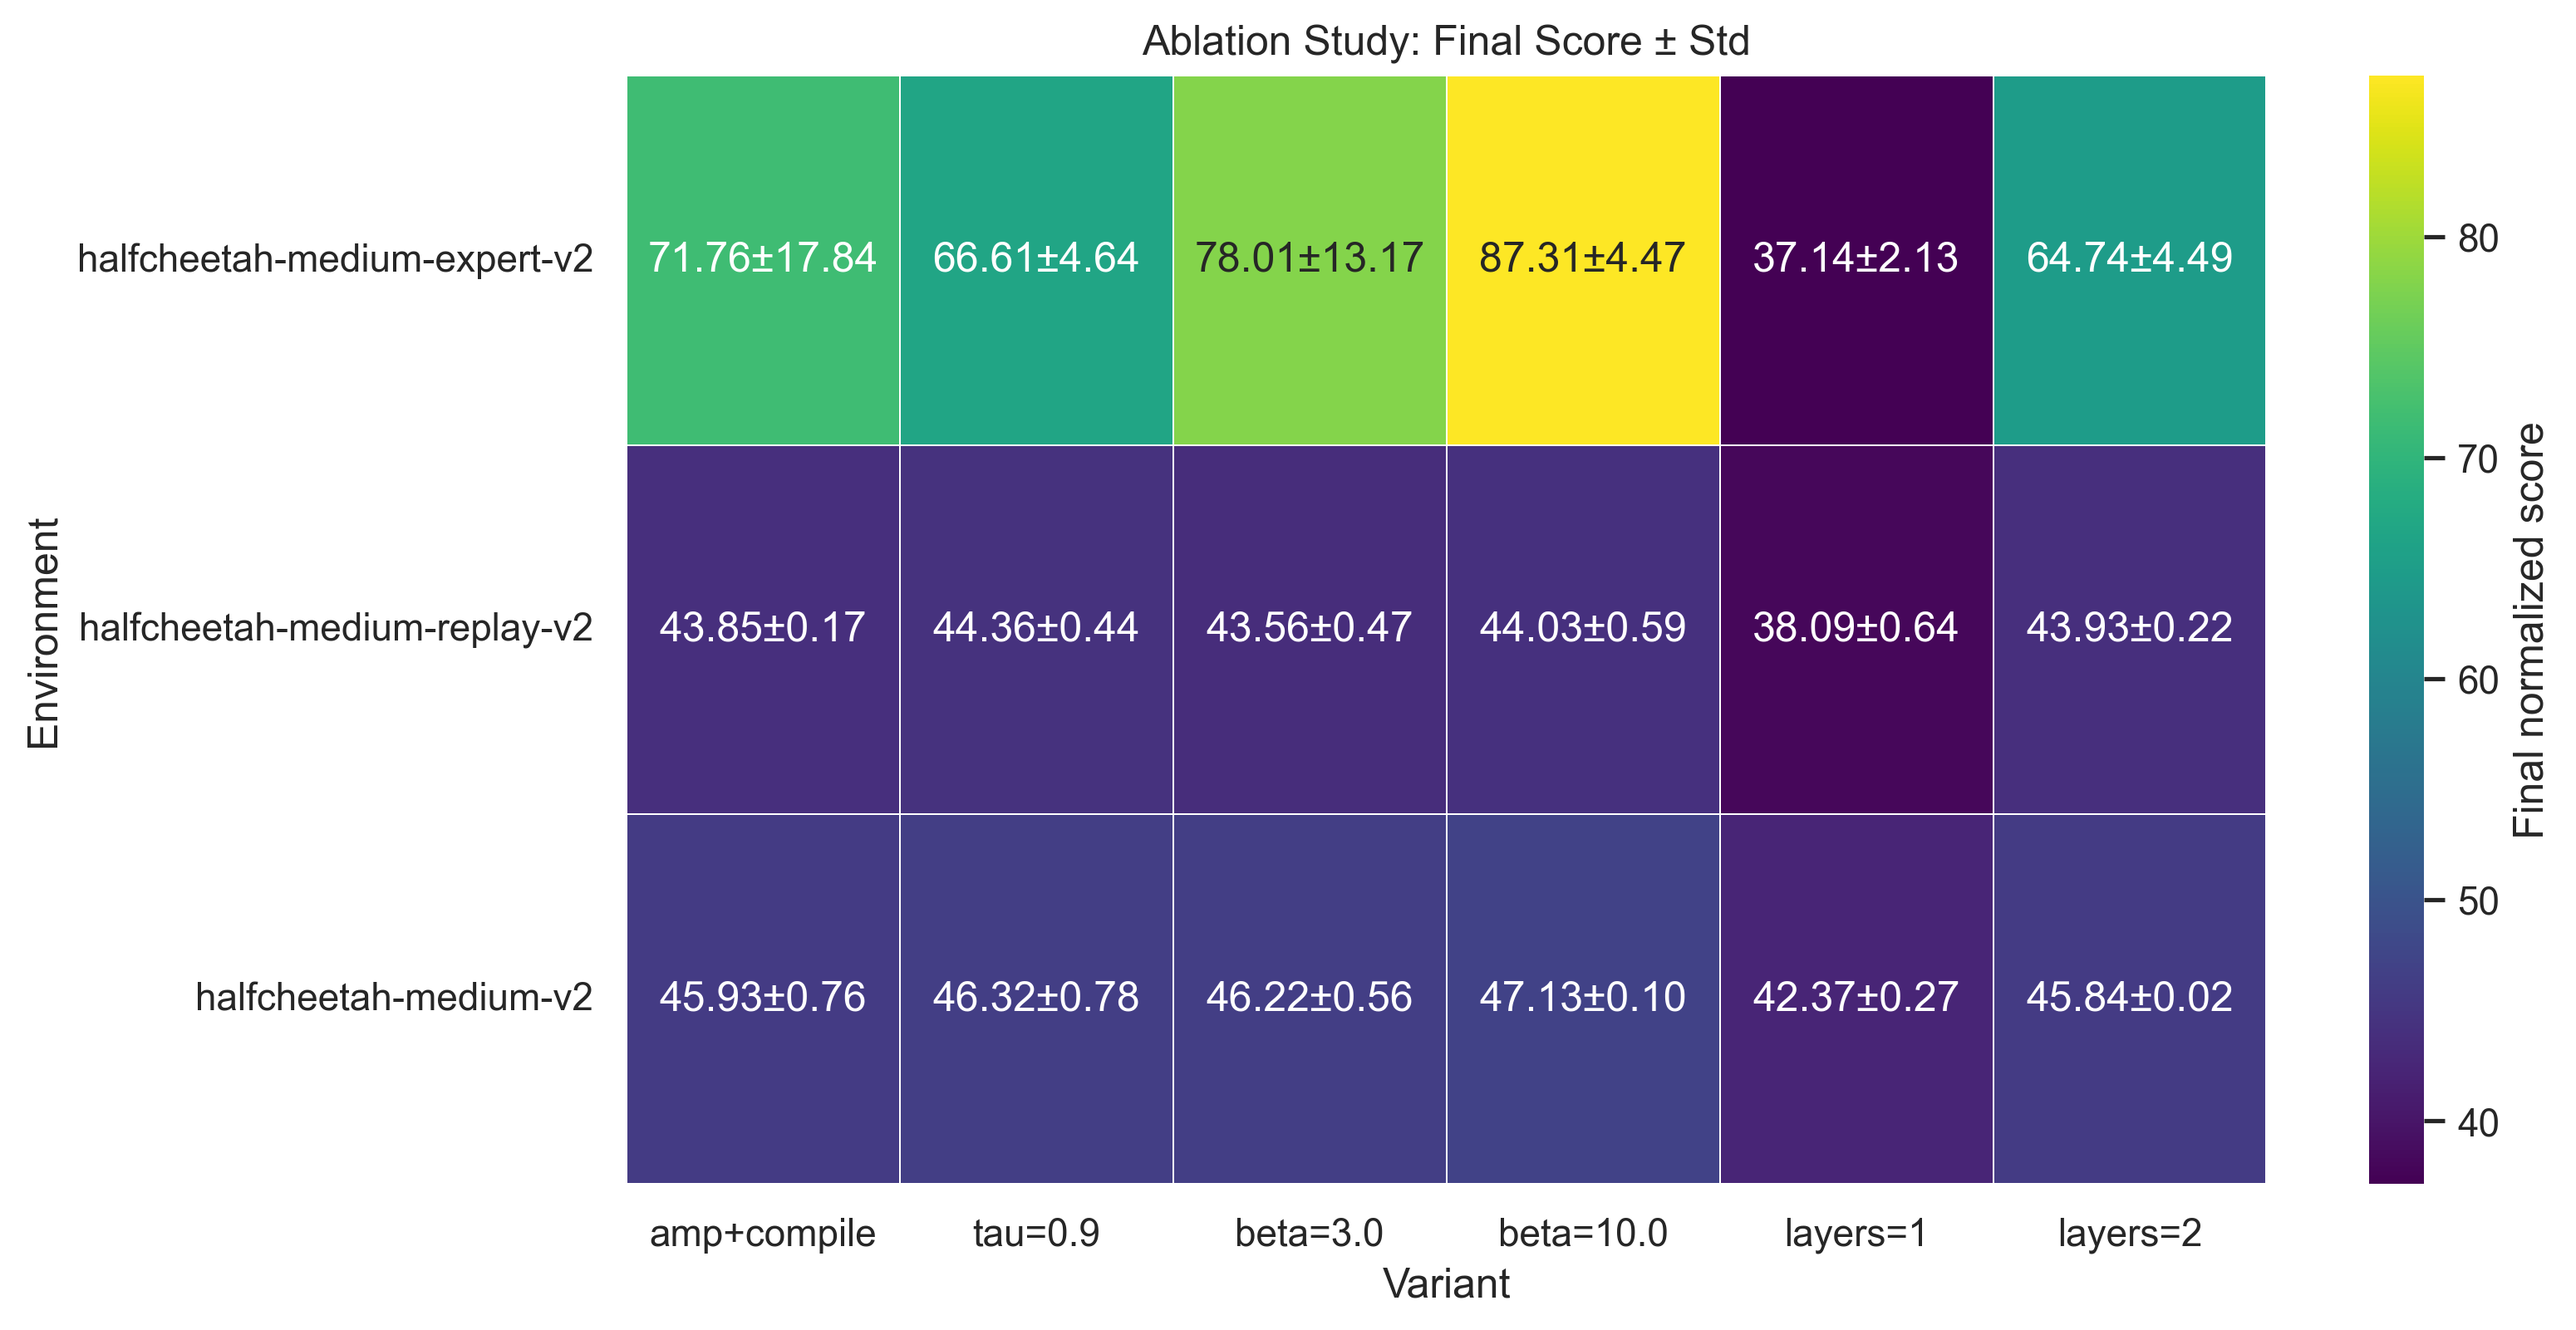
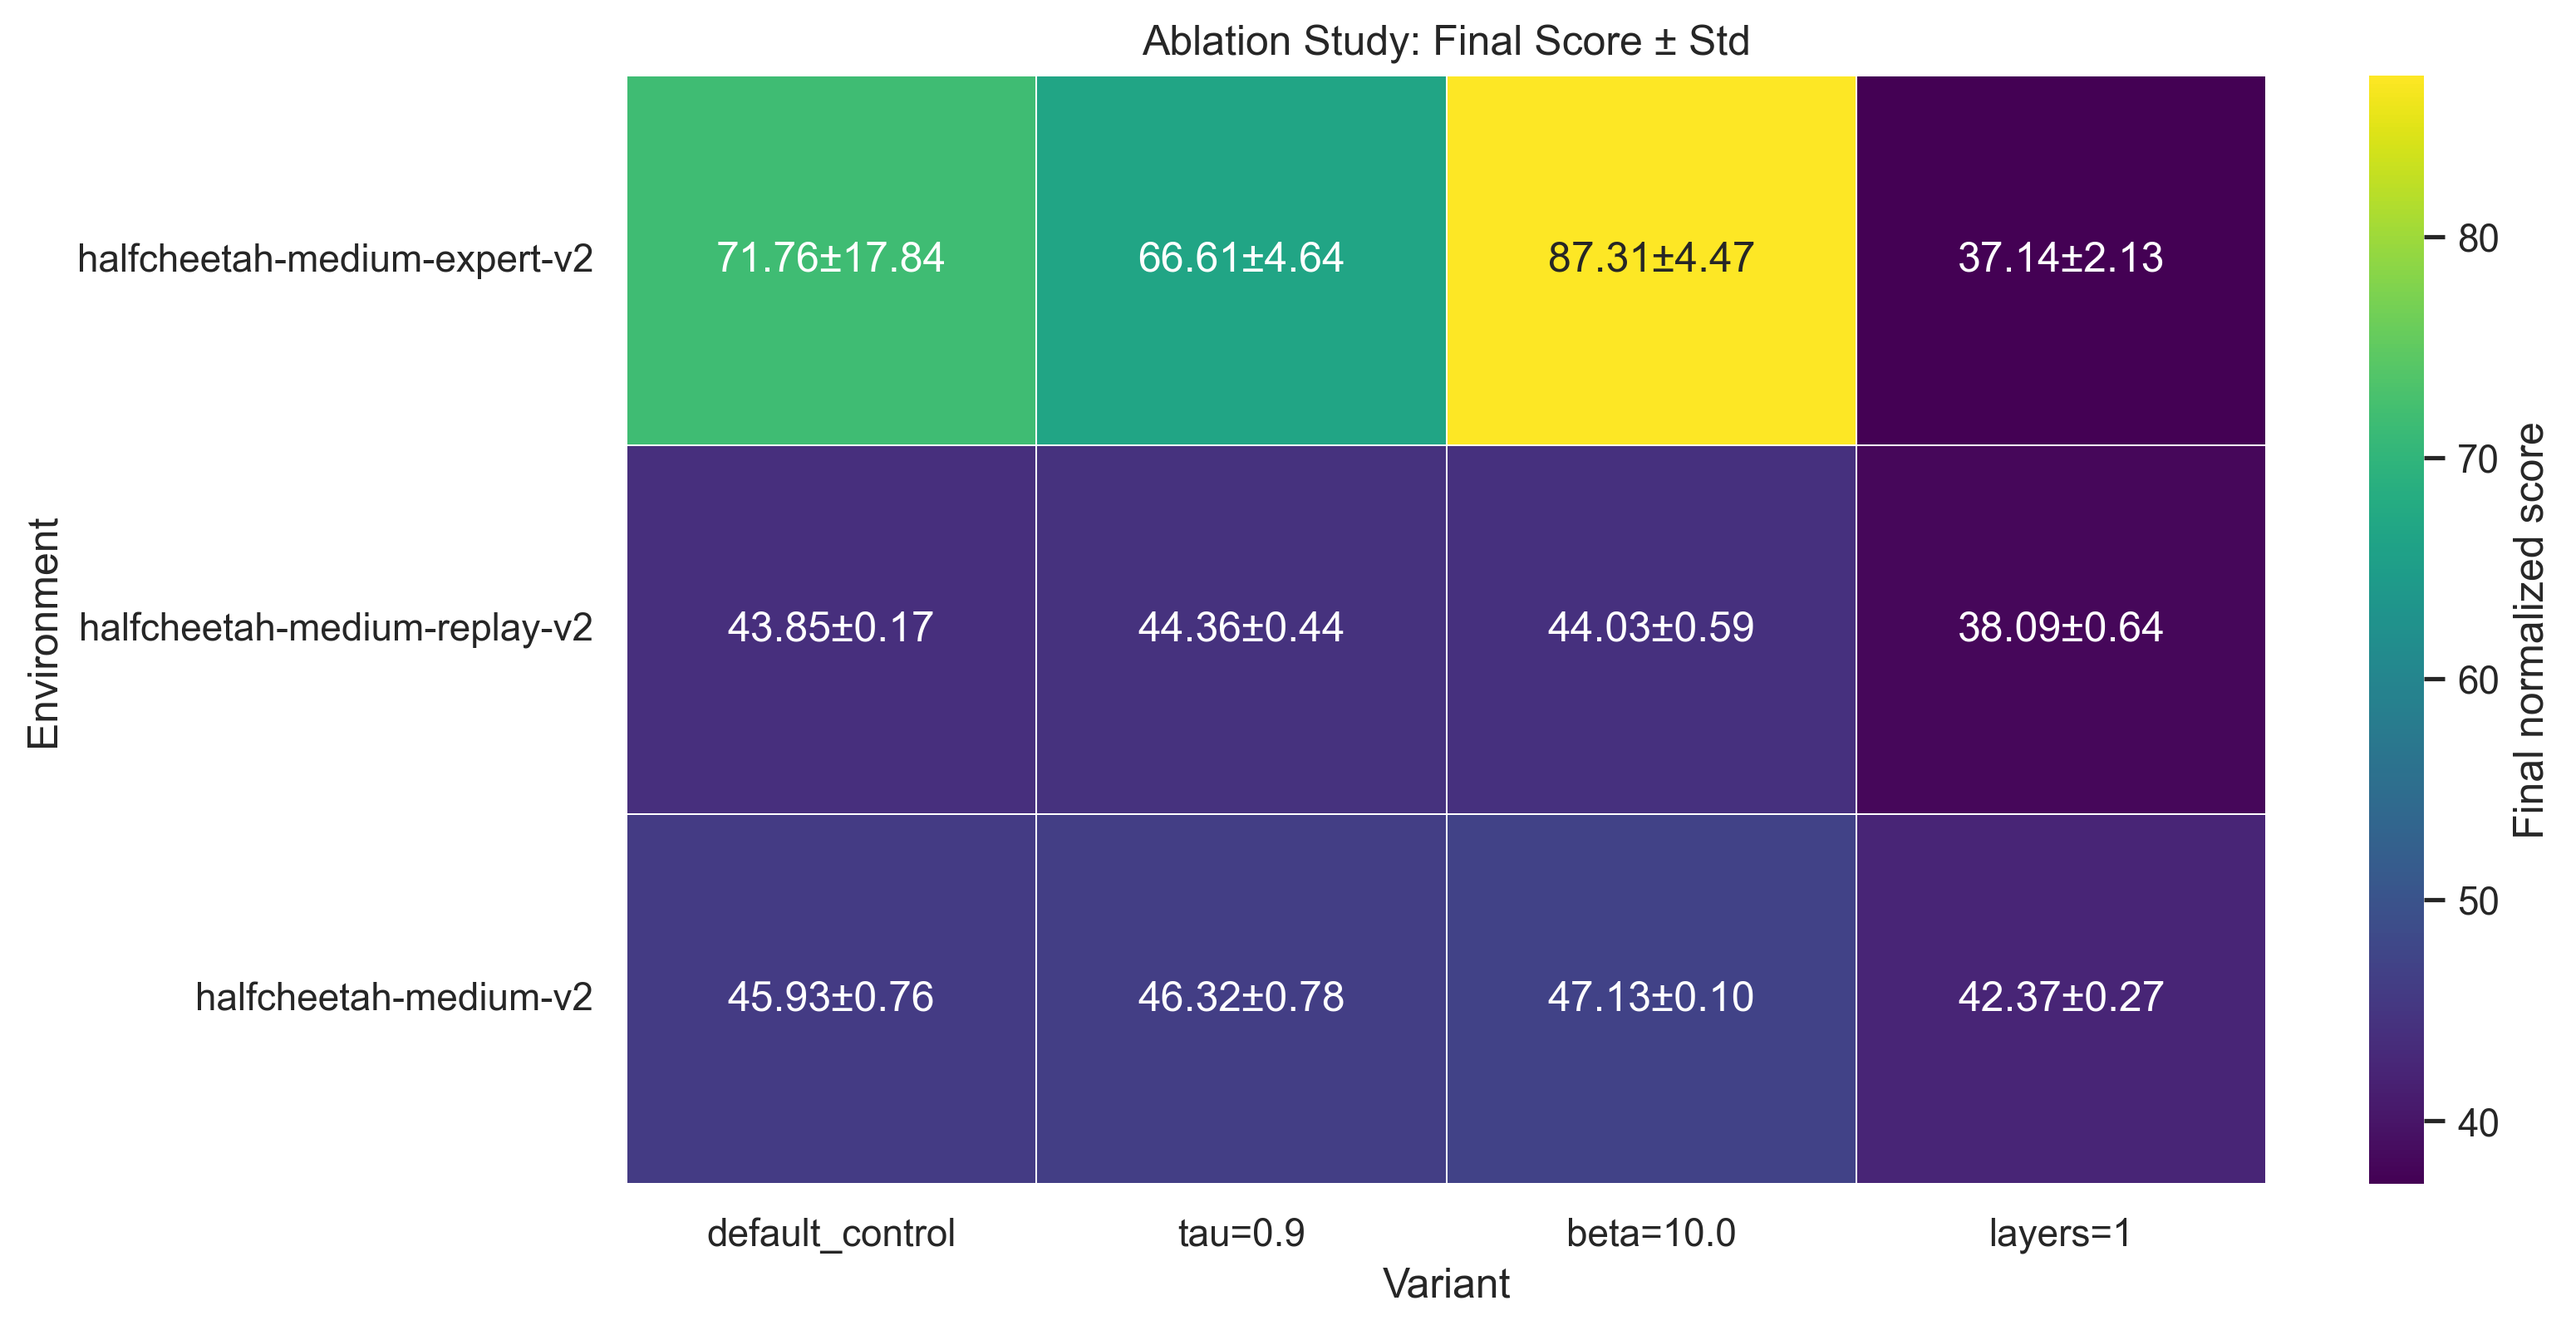
fix: bad heatmap visualization -- deduping control-equivalent variants and other redundancies

diff --git a/src/generate_visualizations.py b/src/generate_visualizations.py
@@ -49,6 +49,7 @@ def parse_args() -> argparse.Namespace:
     )
     parser.add_argument("--figures-dir", type=Path, default=Path("figures"))
     parser.add_argument("--improved-label", type=str, default="amp+compile")
+    parser.add_argument("--ablation-control-label", type=str, default="default_control")
     return parser.parse_args()
 
 
@@ -58,9 +59,9 @@ def load_csv(path: Path) -> pd.DataFrame:
     return pd.read_csv(path)
 
 
-def make_variant_label(ablation_type: str, ablation_value: str, improved_label: str) -> str:
+def make_variant_label(ablation_type: str, ablation_value: str, default_control_label: str) -> str:
     if ablation_type == "default":
-        return improved_label
+        return default_control_label
     if ablation_type == "tau":
         return f"tau={ablation_value}"
     if ablation_type == "beta":
@@ -68,6 +69,32 @@ def make_variant_label(ablation_type: str, ablation_value: str, improved_label: 
     if ablation_type == "n_hidden_layers":
         return f"layers={ablation_value}"
     return f"{ablation_type}={ablation_value}"
+
+
+def ordered_ablation_columns(variants: pd.Series, default_control_label: str) -> list[str]:
+    present = set(variants.astype(str).tolist())
+    ordered: list[str] = []
+
+    if default_control_label in present:
+        ordered.append(default_control_label)
+
+    def sort_values(prefix: str) -> list[str]:
+        subset = [variant for variant in present if variant.startswith(prefix)]
+        return sorted(subset, key=lambda value: float(value.split("=", maxsplit=1)[1]))
+
+    ordered.extend(sort_values("tau="))
+    ordered.extend(sort_values("beta="))
+    ordered.extend(sort_values("layers="))
+    ordered.extend(sorted(present - set(ordered)))
+    return ordered
+
+
+def drop_control_equivalent_variants(columns: list[str], default_control_label: str) -> list[str]:
+    if default_control_label not in columns:
+        return columns
+
+    control_equivalents = {"tau=0.7", "beta=3.0", "layers=2"}
+    return [column for column in columns if column == default_control_label or column not in control_equivalents]
 
 
 def parse_run_dir_name(name: str) -> tuple[str, int, str, str]:
@@ -118,10 +145,10 @@ def env_order_from_aggregates(baseline_agg: pd.DataFrame) -> list[str]:
     return list(baseline_agg["env"].tolist())
 
 
-def build_best_ablation_table(ablation_agg: pd.DataFrame, improved_label: str) -> pd.DataFrame:
+def build_best_ablation_table(ablation_agg: pd.DataFrame, default_control_label: str) -> pd.DataFrame:
     df = ablation_agg.copy()
     df["variant"] = df.apply(
-        lambda row: make_variant_label(str(row["ablation_type"]), str(row["ablation_value"]), improved_label),
+        lambda row: make_variant_label(str(row["ablation_type"]), str(row["ablation_value"]), default_control_label),
         axis=1,
     )
     best = df.sort_values(["env", "final_score_mean"], ascending=[True, False]).groupby("env", as_index=False).first()
@@ -309,15 +336,15 @@ def plot_systems_metrics(
     plt.close(fig)
 
 
-def plot_ablation_heatmap(ablation_agg: pd.DataFrame, improved_label: str, figures_dir: Path) -> None:
+def plot_ablation_heatmap(ablation_agg: pd.DataFrame, default_control_label: str, figures_dir: Path) -> None:
     df = ablation_agg.copy()
     df["variant"] = df.apply(
-        lambda row: make_variant_label(str(row["ablation_type"]), str(row["ablation_value"]), improved_label),
+        lambda row: make_variant_label(str(row["ablation_type"]), str(row["ablation_value"]), default_control_label),
         axis=1,
     )
 
-    column_order = [improved_label, "tau=0.9", "beta=3.0", "beta=10.0", "layers=1", "layers=2"]
-    existing_columns = [col for col in column_order if col in set(df["variant"])]
+    existing_columns = ordered_ablation_columns(df["variant"], default_control_label)
+    existing_columns = drop_control_equivalent_variants(existing_columns, default_control_label)
 
     means = df.pivot(index="env", columns="variant", values="final_score_mean")
     stds = df.pivot(index="env", columns="variant", values="final_score_std")
@@ -486,14 +513,14 @@ def generate_figures(args: argparse.Namespace) -> list[Path]:
     baseline_raw = load_csv(args.baseline_raw)
     improved_raw = load_csv(args.improved_raw)
     eval_histories = collect_eval_histories(args.results_root, args.improved_label)
-    best_ablation = build_best_ablation_table(ablation_agg, args.improved_label)
+    best_ablation = build_best_ablation_table(ablation_agg, args.ablation_control_label)
 
     args.figures_dir.mkdir(parents=True, exist_ok=True)
 
     plot_learning_curves(eval_histories, baseline_agg, args.improved_label, args.figures_dir)
     plot_score_comparison(baseline_agg, improved_agg, best_ablation, args.improved_label, args.figures_dir)
     plot_systems_metrics(baseline_agg, improved_agg, args.improved_label, args.figures_dir)
-    plot_ablation_heatmap(ablation_agg, args.improved_label, args.figures_dir)
+    plot_ablation_heatmap(ablation_agg, args.ablation_control_label, args.figures_dir)
     plot_stability_analysis(eval_histories, baseline_raw, improved_raw, args.improved_label, args.figures_dir)
     plot_summary_table(baseline_agg, improved_agg, best_ablation, args.figures_dir)
 

diff --git a/README.md b/README.md
@@ -1,7 +1,5 @@
 <!-- AI-assisted: Claude, 2026-04-21 -->
 
-## Project Title
-
 # Fastmagic: Speeding Up Implicit Q-Learning (IQL)
 
 ## Project Overview
@@ -95,7 +93,7 @@ python src/benchmark_iql.py --preset mujoco --max_envs 3 --seeds 0 1 --train_ste
 
 The implementation follows the standard IQL decomposition into:
 
-- a value network trained with expectile regression,
+- a value network trained with **vectorized expectile regression** (no Python loops in the loss path),
 - twin Q-functions trained with Bellman backup targets, and
 - a policy trained with advantage-weighted behavior cloning.
 
@@ -103,6 +101,7 @@ The implementation follows the standard IQL decomposition into:
 
 - **GPU-resident replay buffer:** reduces repeated host-to-device transfer overhead during sampling.
 - **Mixed precision:** reduces update cost on CUDA hardware while preserving the same training objective.
+- **Vectorized expectile loss:** keeps the value-loss computation in pure tensor operations to reduce Python overhead in the update path.
 - **`torch.compile`:** targets lower Python overhead and faster repeated forward passes.
 - **Parallel V/Q updates:** explores whether the value and critic steps can be batched more efficiently without changing the benchmark task itself.
 
@@ -112,6 +111,10 @@ The committed ablations vary at least two independent design choices supported b
 
 - **architecture:** value-network depth (`n_hidden_layers`)
 - **algorithm behavior:** `tau` and `beta`
+
+For the reported MuJoCo ablation sweep, each non-default row changes one target factor while keeping the other ablation factors fixed to the default control (`tau=0.7`, `beta=3.0`, `n_hidden_layers=2`).
+
+Systems settings were also held constant across these ablation runs (mixed precision enabled, `torch.compile` enabled in `reduce-overhead` mode, parallel V/Q updates enabled, replay on GPU), so the heatmap isolates ablation-factor effects rather than re-ablating AMP/compile.
 
 This supports a rubric-aligned ablation study without overstating the scope of the completed sweep.
 
@@ -180,7 +183,7 @@ Best available ablations from the results:
 
 ![Heatmap table showing final normalized score plus standard deviation for the completed tau, beta, and layer-depth ablations.](figures/04_ablation_heatmap.png)
 
-*Figure 4. Ablation heatmap over the completed depth and hyperparameter variations currently committed to the repository.*
+*Figure 4. Ablation heatmap over distinct depth and hyperparameter variations currently committed to the repository; `default_control` is the non-ablated reference configuration, and control-equivalent variants (`beta=3.0`, `layers=2`) are omitted for readability.*
 
 #### Stability and failure-case analysis
 

diff --git a/ATTRIBUTION.md b/ATTRIBUTION.md
@@ -57,3 +57,5 @@ I used AI heavily for initial code generation while referencing the RLKit PyTorc
 AI was also helpful for initial scaffolding and to create the requirements.txt and quickly establish a directory structure which adhered to the rubric. While I used it to generate the ATTRIBUTION.md and README.md, I heavily augmented both for accuracy.
 I had to rework the training notework and tune the hyperparameters myself, as well as evaluate the results against the paper. I also had to debug an issue where incomplete runs were being marked as completed during training runs (with AI assistance).
 After I completed the runs and collected the training data, I used AI to help quickly parse the data, graph it, and summarize it in the Evaluations section. For the final reporting pass, I specifically used AI to verify which ablation values were actually present in the committed results, update the README with only measured CSV values, and generate reusable plotting code that refuses to fabricate missing CP-threshold or paper-reference data.
+While the idea of this project was my own, I would prompt AI on a high-level to allow it to speed up my workflows, primarily with things like code-generation, formatting, generating plots, as well as writing things like the Quickstart, SETUP.md, requirements.txt, and expanding on my ideas in the README.
+Tuned issues with the curves, primarily issues with formatting (such as legends being inside of the title) as well as redundacies in plotting the heatmap like the AI plotting beta=3.0 and layers=2 even though the default control already has beta=3.0 and layers=2
